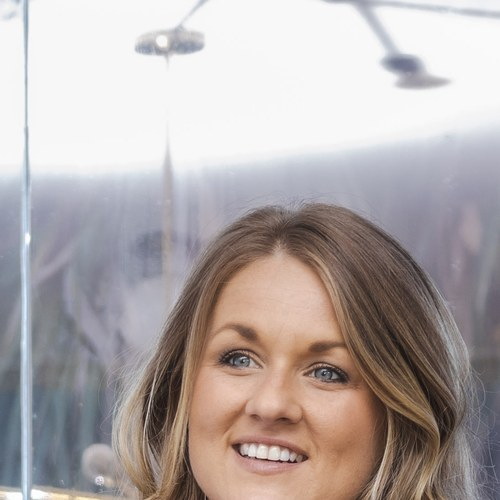
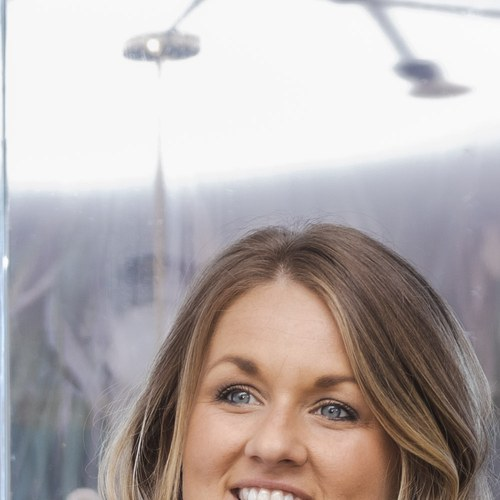
fix: re-crop Angele & Gloria as proper squares, center Amanda, shorten card bio
- Angele: re-cropped from original as a true 620×620 square (previous crop
  was 900×700 stretched to 500×500, causing horizontal distortion)
- Gloria: re-cropped from original as a true 700×700 square (previous crop
  was 900×800 — same issue)
- Amanda: adjusted crop to better center face vertically in the square
- team/page.tsx: add shortBio to Amanda for card view; full bio still shows
  in the modal. Card now renders shortBio when present, bio otherwise.

diff --git a/src/app/team/page.tsx b/src/app/team/page.tsx
@@ -134,6 +134,7 @@ const CORE_TEAM = [
     name: 'Amanda William',
     photo: '/images/team/amanda-william.jpg',
     role: 'Wellness & Functional Programs',
+    shortBio: 'Leads Abundancia\'s wellness and functional health experiences. Brings expertise in program design, hospitality, and high-touch guest journeys.',
     bio: 'Leads the vision and development of Abundancia\'s wellness and functional health experiences. Brings expertise in program design, operations, hospitality, and high-touch guest journeys. Oversees retreats, recovery offerings, biohacking experiences, and strategic wellness partnerships across the project.',
     expertise: ['Wellness Programming', 'Retreat Operations', 'Biohacking & Recovery', 'Hospitality Design'],
     achievements: [
@@ -353,7 +354,7 @@ export default function TeamPage() {
                   </h3>
                   <p className="font-accent text-xs text-primary-600 mb-3">{member.role}</p>
                   <p className="text-sm text-neutral-600 leading-relaxed">
-                    {member.bio}
+                    {'shortBio' in member ? member.shortBio : member.bio}
                   </p>
                   <div className="mt-3 flex flex-wrap gap-1.5">
                     {member.expertise.slice(0, 2).map((tag) => (
